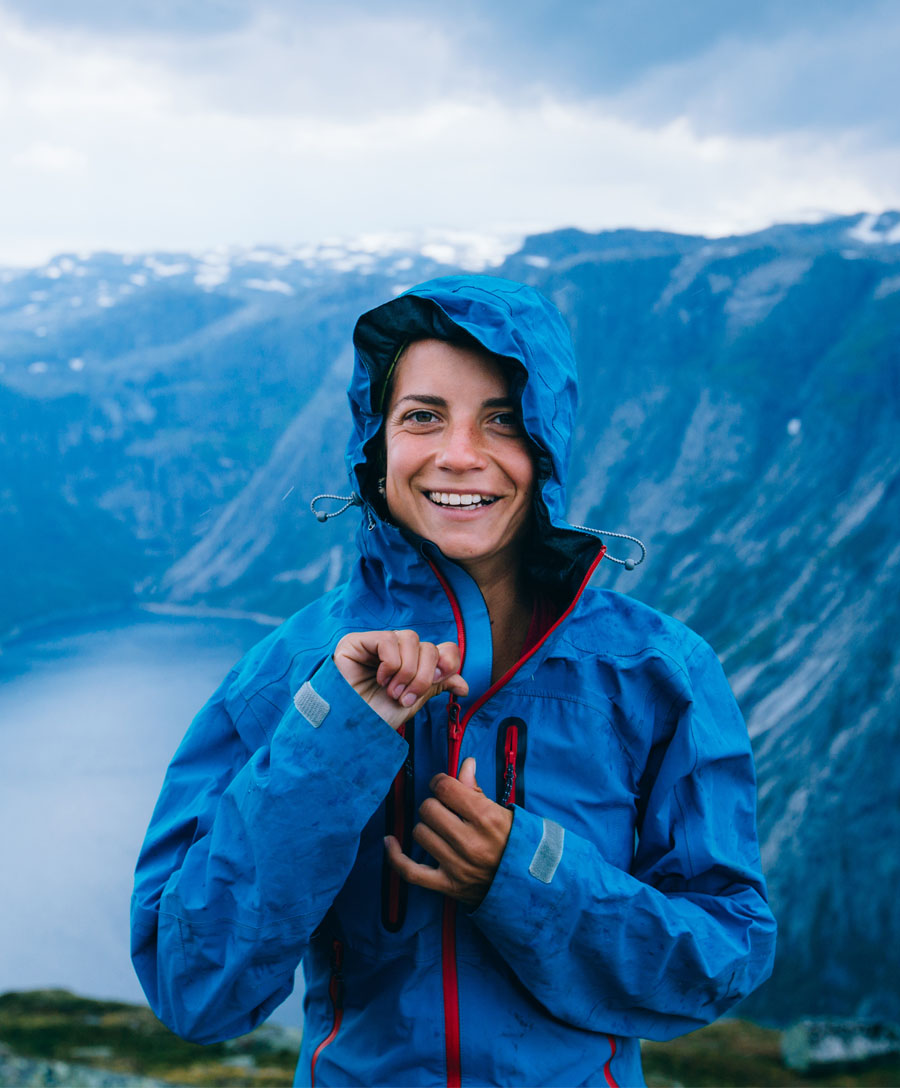
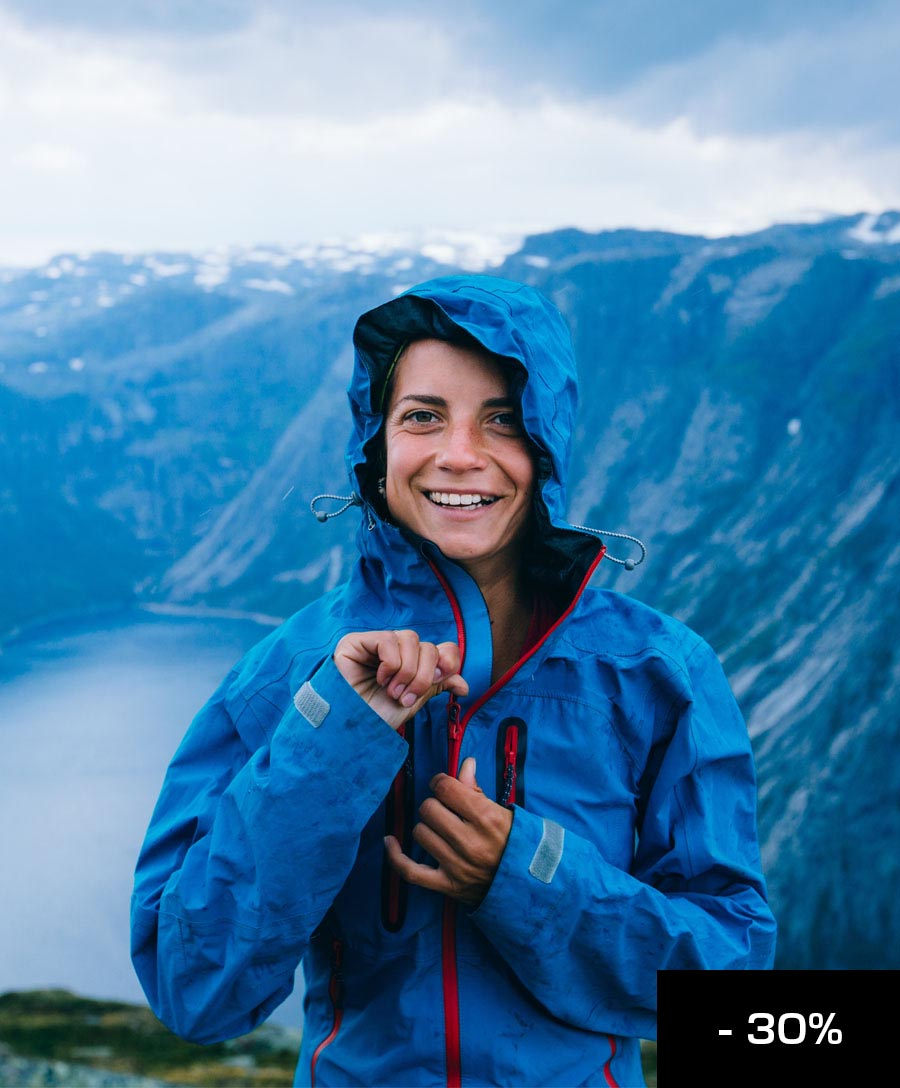
Changed images for responsiveness

Changed region(s): [[0.7156, 0.875, 1.0, 1.0], [0.6222, 0.5312, 0.6533, 0.5625]]

diff --git a/src/css/styles.css b/src/css/styles.css
@@ -76,7 +76,13 @@ button {
 }
 
 .product-card__image {
-  max-width: 440px;
+  max-width: 100%;
+}
+
+@media (min-width: 600px) {
+  .product-card__image {
+    max-width: 440px;
+  }
 }
 
 /* || Header and Main Navigation */
@@ -286,10 +292,22 @@ textarea {
 
 .hero {
   min-height: 700px;
-  color: var(--secondary-color-ultralight);
+  color: var(--primary-color);
   background-image: url(../../assets/images/backgrounds/background_hero.jpg);
   background-position: center;
   background-size: cover;
+  display: flex;
+  flex-direction: column;
+  align-items: center;
+  text-align: center;
+}
+
+@media (min-width: 600px) {
+  .hero {
+    color: var(--secondary-color-ultralight);
+    justify-content: center;
+    align-items: flex-start;
+  }
 }
 
 .hero h1 {
@@ -323,6 +341,7 @@ textarea {
   background-image: url(../../assets/images/backgrounds/background_sale.jpg);
   background-position: center bottom;
   background-size: cover;
+  text-align: center;
 }
 
 @media (min-width: 600px) {
@@ -406,6 +425,16 @@ textarea {
   grid-area: p-p-showcase;
 }
 
+.product-page-showcase__image {
+  max-width: 100%;
+}
+
+@media (min-width: 600px) {
+  .product-page-showcase__image {
+    max-width: 604px;
+  }
+}
+
 .product-page-details {
   grid-area: p-p-details;
 }
@@ -447,10 +476,6 @@ textarea {
   margin: 0px 11px 0px 0px;
 }
 
-.product-page-showcase__image {
-  max-width: 604px;
-}
-
 /* || About */
 
 .main__about {
@@ -465,38 +490,35 @@ textarea {
   }
 }
 
+.history__image,
+.values__image {
+  max-width: 100%;
+}
+
+@media (min-width: 600px) {
+  .history__image,
+  .values__image {
+    max-width: 720px;
+  }
+}
+
 .history h2,
 .values h2 {
   font-size: var(--font-size-heading-secondary);
   margin: 2rem 0rem 0rem 0rem;
 }
 
-.history__image-container {
-  min-width: 720px;
-  height: 800px;
-}
-
-.history__image {
-  width: 100%;
-  height: 100%;
-  object-position: left;
-  object-fit: cover;
+@media (min-width: 600px) {
+  .history__text-container,
+  .values__text-container,
+  .history__image-container,
+  .values__image-container {
+    margin: 1rem 3rem;
+  }
 }
 
 .values span {
   font-weight: 500;
-}
-
-.values__image-container {
-  min-width: 720px;
-  height: 800px;
-}
-
-.values__image {
-  width: 100%;
-  height: 100%;
-  object-fit: cover;
-  object-position: right;
 }
 
 /* || Contact */

diff --git a/products.html b/products.html
@@ -191,7 +191,6 @@
               src="assets/images/products/RainyDays_Jacket8a.jpg"
               alt="Skylar Gore-Tex Jacket"
             />
-            <!-- Insert image or something representing sale-->
             <div class="product-card__details">
               <p class="product-card__gender">Women's</p>
               <p class="product-card__name">Skylar Gore-Tex Jacket</p>

diff --git a/products/jacket.html b/products/jacket.html
@@ -78,7 +78,6 @@
           src="../assets/images/products/RainyDays_Jacket8c.jpg"
           alt="Skylar Gore-Tex Jacket picture 3"
         />
-        <!-- Insert image or something to represent 30% off the product image -->
       </section>
       <section class="product-page-details">
         <p class="order-summary__item-details">Women's</p>
